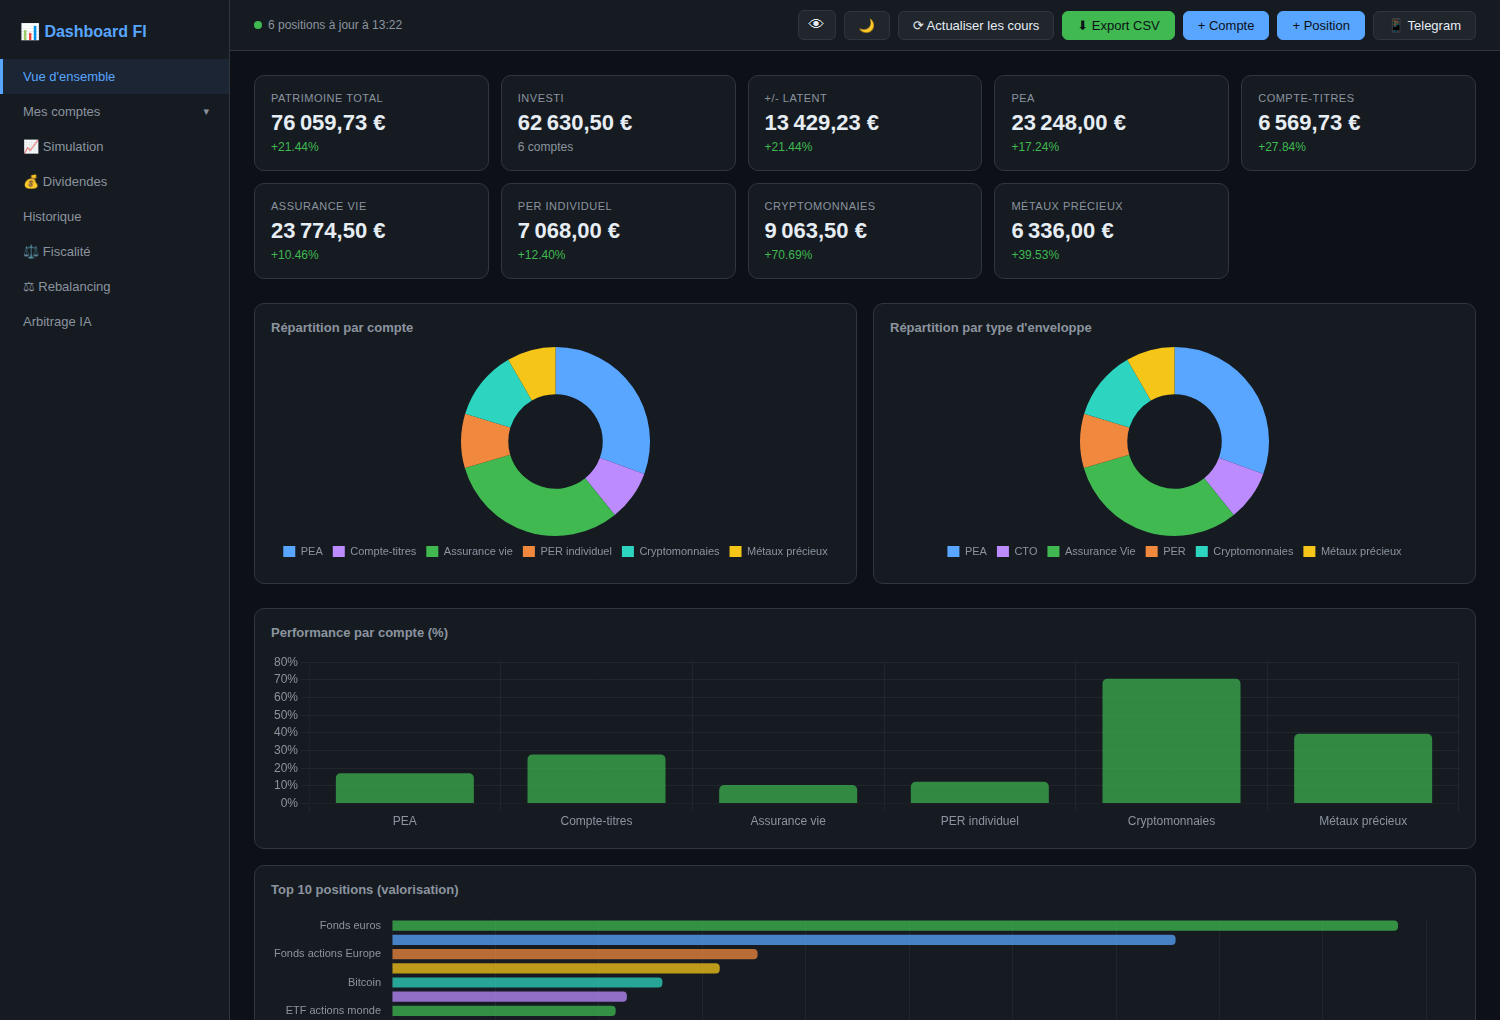
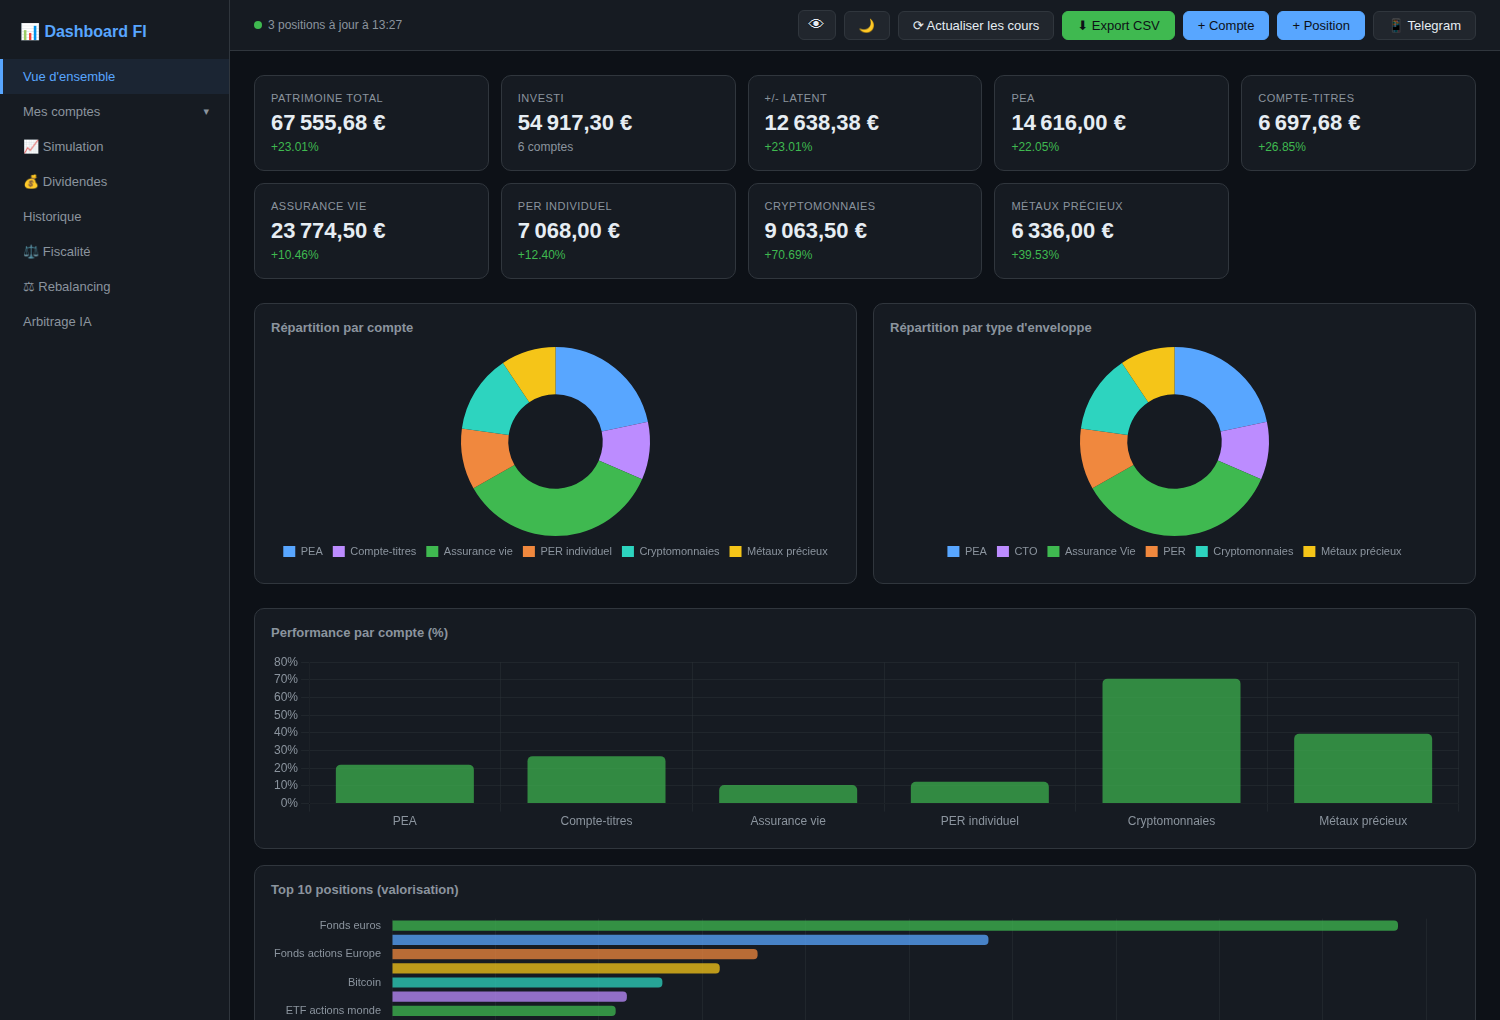
Remplace les exemples par des valeurs sans lien avec un portefeuille réel
Les placeholders, le script de démonstration et les captures reprenaient des
titres et des établissements issus de la version personnelle. Ils sont
remplacés par des exemples neutres, et les établissements ne sont plus nommés.

Claude-Session: https://claude.ai/code/session_01UwXnP3pYjr2uHhzv5f6foG

diff --git a/static/index.html b/static/index.html
@@ -465,19 +465,19 @@
       </div>
       <div class="form-group">
         <label>Nom affiché</label>
-        <input type="text" id="fNom" placeholder="ex : Air Liquide" list="fNomList">
+        <input type="text" id="fNom" placeholder="ex : Danone" list="fNomList">
         <datalist id="fNomList"></datalist>
       </div>
     </div>
     <div class="form-row">
       <div class="form-group">
         <label>Ticker Yahoo Finance <span class="opt">cours automatiques</span></label>
-        <input type="text" id="fTicker" placeholder="ex : AI.PA, MSFT, BTC-EUR" style="font-family:monospace" list="fTickerList">
+        <input type="text" id="fTicker" placeholder="ex : BN.PA, MSFT, BTC-EUR" style="font-family:monospace" list="fTickerList">
         <datalist id="fTickerList"></datalist>
       </div>
       <div class="form-group">
         <label>ISIN <span class="opt">optionnel</span></label>
-        <input type="text" id="fIsin" placeholder="FR0000120073">
+        <input type="text" id="fIsin" placeholder="FR0000120644">
       </div>
     </div>
     <div class="form-row">
@@ -515,7 +515,7 @@
     <div class="hint-box">
       💡 <strong>Ticker Yahoo Finance</strong> : cherchez la valeur sur
       <a href="https://finance.yahoo.com" target="_blank" rel="noopener">finance.yahoo.com</a> et reprenez
-      le symbole affiché — <code>AI.PA</code> (Air Liquide), <code>MSFT</code> (Microsoft),
+      le symbole affiché — <code>BN.PA</code> (Danone), <code>MSFT</code> (Microsoft),
       <code>BTC-EUR</code> (Bitcoin), <code>GC=F</code> (once d'or).
       Sans ticker, le cours reste celui que vous saisissez ici.
     </div>
@@ -544,7 +544,7 @@
     <div class="form-row">
       <div class="form-group full">
         <label>Position (valeur)</label>
-        <input type="text" id="dNom" placeholder="ex : Air Liquide" list="dNomList">
+        <input type="text" id="dNom" placeholder="ex : Danone" list="dNomList">
         <datalist id="dNomList"></datalist>
       </div>
     </div>

diff --git a/scripts/demo_data.py b/scripts/demo_data.py
@@ -21,9 +21,9 @@ COMPTES = [
         "compte": {"nom": "PEA", "type": "pea", "etablissement": "Courtier en ligne",
                    "date_ouverture": "2018-03-15", "cible_pct": 35},
         "positions": [
-            {"nom": "Air Liquide", "ticker": "AI.PA", "isin": "FR0000120073", "secteur": "Industrie", "zone": "Europe", "quantite": 25, "pru": 148.20, "cours": 168.40},
-            {"nom": "Sanofi", "ticker": "SAN.PA", "isin": "FR0000120578", "secteur": "Santé", "zone": "Europe", "quantite": 40, "pru": 88.10, "cours": 94.35},
-            {"nom": "Amundi MSCI World UCITS ETF", "ticker": "CW8.PA", "secteur": "ETF diversifié", "zone": "Monde", "quantite": 30, "pru": 420.00, "cours": 498.70},
+            {"nom": "Danone", "ticker": "BN.PA", "isin": "FR0000120644", "secteur": "Consommation", "zone": "Europe", "quantite": 25, "pru": 58.20, "cours": 68.40},
+            {"nom": "Michelin", "ticker": "ML.PA", "isin": "FR001400AJ45", "secteur": "Industrie", "zone": "Europe", "quantite": 40, "pru": 28.10, "cours": 34.35},
+            {"nom": "ETF MSCI World", "ticker": "IWDA.AS", "secteur": "ETF diversifié", "zone": "Monde", "quantite": 120, "pru": 78.30, "cours": 96.10},
         ],
     },
     {
@@ -31,7 +31,7 @@ COMPTES = [
                    "date_ouverture": "2021-06-01", "cible_pct": 20},
         "positions": [
             {"nom": "Microsoft", "ticker": "MSFT", "secteur": "Technologie", "zone": "États-Unis", "quantite": 12, "pru": 310.00, "cours": 425.50, "devise": "USD"},
-            {"nom": "Air Products", "ticker": "APD", "secteur": "Industrie", "zone": "États-Unis", "quantite": 8, "pru": 265.00, "cours": 288.20, "devise": "USD"},
+            {"nom": "Johnson & Johnson", "ticker": "JNJ", "secteur": "Santé", "zone": "États-Unis", "quantite": 15, "pru": 152.00, "cours": 163.40, "devise": "USD"},
         ],
     },
     {

diff --git a/backend/db.py b/backend/db.py
@@ -16,7 +16,7 @@ SCHEMA = """
 -- ── Comptes créés par l'utilisateur ─────────────────────────────────────────
 CREATE TABLE IF NOT EXISTS accounts (
     id             INTEGER PRIMARY KEY AUTOINCREMENT,
-    nom            TEXT    NOT NULL,              -- libellé libre : « PEA Bourse Direct »
+    nom            TEXT    NOT NULL,              -- libellé libre : « PEA — mon courtier »
     type           TEXT    NOT NULL,              -- pea | cto | per | av | metaux | crypto
     etablissement  TEXT    DEFAULT '',            -- courtier, banque, assureur, plateforme…
     date_ouverture TEXT    DEFAULT '',            -- YYYY-MM-DD — sert aux règles fiscales

diff --git a/catalog.py b/catalog.py
@@ -25,7 +25,7 @@ ACCOUNT_TYPES = {
         "decimales": 4,
         "devise_defaut": "EUR",
         "exemple_nom": "PEA",
-        "exemple_etablissement": "Bourse Direct, Fortuneo, Boursorama…",
+        "exemple_etablissement": "Banque ou courtier en ligne",
         "seuil_ans": 5,
         "plafond": 150000,
         "modele_fiscal": "pea",
@@ -53,7 +53,7 @@ ACCOUNT_TYPES = {
         "decimales": 4,
         "devise_defaut": "EUR",
         "exemple_nom": "CTO",
-        "exemple_etablissement": "Saxo, Interactive Brokers, Trade Republic…",
+        "exemple_etablissement": "Courtier français ou international",
         "seuil_ans": None,
         "plafond": None,
         "modele_fiscal": "flat",

diff --git a/README.md b/README.md
@@ -106,7 +106,7 @@ python scripts/demo_data.py --reset   # repartir d'une base vide
 
 Les cours viennent de Yahoo Finance via [yfinance](https://github.com/ranaroussi/yfinance).
 Le ticker se trouve sur [finance.yahoo.com](https://finance.yahoo.com) — par exemple
-`AI.PA` (Air Liquide), `MSFT` (Microsoft), `BTC-EUR` (Bitcoin), `GC=F` (once d'or).
+`BN.PA` (Danone), `MSFT` (Microsoft), `BTC-EUR` (Bitcoin), `GC=F` (once d'or).
 
 Le moteur est identique pour toutes les enveloppes : le cours est récupéré dans la devise
 de la position, puis converti en euros au taux du moment. Les valorisations, plus-values et
